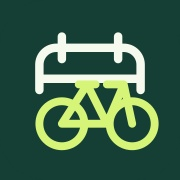
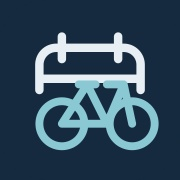
style: align public site with neutral admin design (v0.9.35)

Changed region(s): [[0.1667, 0.4167, 0.8889, 0.8611]]

diff --git a/app/components/site.module.css b/app/components/site.module.css
@@ -2,42 +2,40 @@
 .page { max-width: 1248px; margin: auto; padding: 32px 32px 80px; color: var(--foreground); }
 .heading { margin: 12px 0 32px; }
 .eyebrow { display: flex; align-items: center; gap: 9px; font-size: 11px; font-weight: 750; text-transform: uppercase; letter-spacing: .15em; color: var(--site-accent); }
-.heading h1 { margin: 14px 0 10px; font-size: clamp(30px, 3.6vw, 48px); font-weight: 750; letter-spacing: -.055em; line-height: 1.08; text-wrap: balance; }
+.heading h1 { margin: 12px 0 8px; font-size: clamp(27px, 3vw, 34px); font-weight: 650; letter-spacing: -.035em; line-height: 1.25; text-wrap: balance; }
 .heading p { color: var(--site-muted); font-size: 15px; line-height: 1.7; max-width: 680px; }
-.hero { position: relative; isolation: isolate; overflow: hidden; margin: 0 0 28px; padding: 36px 40px; border-radius: 24px; background: var(--site-hero); color: #f6f9ed; }
-.hero .eyebrow { color: var(--site-lime); }
-.hero h1 { max-width: 650px; font-size: clamp(34px, 4vw, 54px); margin: 19px 0 16px; letter-spacing: -.06em; line-height: 1.04; font-weight: 750; }
-.hero p { max-width: 490px; color: var(--site-hero-muted); font-size: 14px; line-height: 1.7; }
-.heroArt { position: absolute; width: 370px; height: 330px; right: -12px; top: -30px; z-index: -1; opacity: .65; transform: rotate(-12deg); }
-.heroArt path { fill: none; stroke: var(--site-hero-muted); stroke-width: 1; opacity: .25; }
-.heroArt .route { stroke: var(--site-lime); stroke-width: 3; opacity: 1; stroke-linecap: round; }
-.heroMeta { margin-top: 26px; display: flex; gap: 20px; flex-wrap: wrap; font-size: 10px; font-weight: 650; letter-spacing: .08em; text-transform: uppercase; color: var(--site-hero-muted); }
+.hero { display: flex; align-items: flex-end; justify-content: space-between; gap: 24px; margin: 0 0 26px; padding: 12px 0 0; color: var(--foreground); }
+.hero h1 { font-size: clamp(27px, 3vw, 34px); margin: 12px 0 8px; letter-spacing: -.035em; line-height: 1.25; font-weight: 650; }
+.hero p { max-width: 58ch; color: var(--site-muted); font-size: 14px; line-height: 1.7; }
+.heroMeta { display: flex; flex-direction: column; gap: 8px; padding-bottom: 3px; font-size: 11px; font-weight: 500; color: var(--site-muted); }
 .heroMeta span { display: inline-flex; gap: 7px; align-items: center; }
-.heroMeta svg { color: var(--site-lime); }
+.heroMeta svg { color: var(--site-muted); }
 
-.nav { position: sticky; top: 0; z-index: 50; background: var(--site-surface); border-bottom: 1px solid var(--site-line); color: var(--foreground); }
+.nav { position: sticky; top: 0; z-index: 50; background: var(--site-nav); border-bottom: 1px solid var(--site-line); color: var(--foreground); }
 .navInner { max-width: 1248px; margin: auto; padding: 0 32px; display: grid; grid-template-columns: auto 1fr; align-items: center; }
-.brand { display: inline-flex; align-items: center; gap: 11px; color: var(--foreground); text-decoration: none; padding: 19px 0; }
-.brand strong { font-size: 16px; letter-spacing: -.045em; font-weight: 800; line-height: 1.1; }
+.brand { display: inline-flex; align-items: center; gap: 11px; color: var(--foreground); text-decoration: none; padding: 16px 0; }
+.brand strong { font-size: 16px; letter-spacing: -.045em; font-weight: 700; line-height: 1.1; }
 .brand small { display: block; margin-top: 5px; font-size: 9px; letter-spacing: .19em; text-transform: uppercase; color: var(--site-muted); }
 .desktopNav { display: contents; }
-.navLinks { grid-column: 1 / -1; grid-row: 2; display: flex; gap: 5px; padding: 0 0 11px; }
+.navLinks { grid-column: 1 / -1; grid-row: 2; display: flex; gap: 4px; padding: 0; }
+.navLinks .navLink { border-radius: 0; border-bottom: 2px solid transparent; padding: 13px 12px; }
+.navLinks .activeLink { background: transparent; border-bottom-color: var(--site-accent); }
 .navLink { display: inline-flex; align-items: center; gap: 7px; padding: 10px 13px; border-radius: 9px; color: var(--site-muted); font-size: 12px; font-weight: 650; text-decoration: none; white-space: nowrap; transition: background .18s, color .18s; }
 .navLink svg { width: 15px; height: 15px; }
 .navLink:hover { background: var(--site-soft); color: var(--foreground); }
 .activeLink { background: var(--site-accent-soft); color: var(--site-accent); }
 .navActions { grid-column: 2; grid-row: 1; display: flex; align-items: center; justify-content: flex-end; gap: 10px; }
 .navActions > .navLink { padding: 8px; }
-.iconButton { display: inline-flex; align-items: center; justify-content: center; width: 38px; height: 38px; border: 1px solid var(--site-line); border-radius: 50%; color: var(--foreground); background: var(--site-surface); cursor: pointer; transition: background .2s; }
+.iconButton { display: inline-flex; align-items: center; justify-content: center; width: 38px; height: 38px; border: 1px solid var(--site-line); border-radius: 8px; color: var(--foreground); background: var(--site-surface); cursor: pointer; transition: background .2s; }
 .iconButton:hover { background: var(--site-soft); }
-.primaryButton { display: inline-flex; justify-content: center; align-items: center; gap: 9px; padding: 12px 20px; border: 1px solid transparent; border-radius: 11px; background: var(--site-accent); color: var(--site-surface); font-size: 13px; font-weight: 700; cursor: pointer; text-decoration: none; transition: filter .2s, transform .2s; }
-.primaryButton:hover { filter: brightness(1.1); transform: translateY(-1px); }
+.primaryButton { display: inline-flex; justify-content: center; align-items: center; gap: 9px; padding: 12px 20px; border: 1px solid transparent; border-radius: 11px; background: var(--site-accent); color: var(--site-surface); font-size: 13px; font-weight: 700; cursor: pointer; text-decoration: none; transition: filter .2s; }
+.primaryButton:hover { filter: brightness(1.08); }
 .primaryButton:disabled { opacity: .6; cursor: wait; transform: none; }
 .mobileNav, .mobileActions { display: none; }
 .drawerBackdrop { display: none; }
 .drawer { display: none; }
 
-.toolbar { display: flex; align-items: center; justify-content: space-between; gap: 14px; padding: 16px; border: 1px solid var(--site-line); border-radius: 16px; background: var(--site-surface); }
+.toolbar { display: flex; align-items: center; justify-content: space-between; gap: 14px; padding: 16px; border: 1px solid var(--site-line); border-radius: 10px; background: var(--site-surface); }
 .toolbarActions { display: flex; gap: 8px; flex-wrap: wrap; align-items: center; }
 .filterButton, .toolbar select { display: inline-flex; align-items: center; justify-content: center; gap: 8px; min-height: 42px; padding: 0 14px; border: 1px solid var(--site-line); border-radius: 10px; background: var(--site-surface); color: var(--foreground); font-size: 12px; font-weight: 650; cursor: pointer; }
 .filterButton[aria-expanded="true"] { background: var(--site-accent-soft); color: var(--site-accent); border-color: var(--site-accent); }
@@ -47,49 +45,49 @@
 .search input::placeholder { color: var(--site-muted); }
 .search button { flex-shrink: 0; width: 28px; height: 28px; display: grid; place-items: center; border-radius: 6px; }
 .results { display: flex; flex-wrap: wrap; align-items: center; justify-content: space-between; gap: 12px; padding: 19px 2px 0; }
-.filters { margin-top: 14px; padding: 24px; border: 1px solid var(--site-line); border-radius: 16px; background: var(--site-surface); }
+.filters { margin-top: 14px; padding: 24px; border: 1px solid var(--site-line); border-radius: 10px; background: var(--site-surface); }
 .filters select { min-height: 42px; }
 .filters label { color: var(--site-muted); letter-spacing: .08em; font-size: 10px; }
 .monthHeading { display: flex; gap: 14px; align-items: center; margin: 24px 0 8px; }
 .monthHeading h2 { font-size: 20px; font-weight: 750; letter-spacing: -.035em; }
 .monthHeading h2 span { color: var(--site-muted); font-weight: 400; margin-left: 8px; }
 .monthHeading::after { content: ''; height: 1px; flex: 1; background: var(--site-line); }
-.eventCard { position: relative; display: flex; align-items: center; gap: 16px; padding: 18px; background: var(--site-surface); border: 1px solid var(--site-line); border-radius: 14px; transition: border-color .2s, box-shadow .2s; cursor: pointer; }
-.eventCard:hover { border-color: var(--site-accent); box-shadow: 0 4px 18px #153e350a; }
-.eventCard:has(.eventTitle:focus-visible) { outline: 3px solid var(--site-accent); outline-offset: 3px; }
+.eventCard { position: relative; display: flex; align-items: center; gap: 16px; padding: 18px; background: var(--site-surface); border: 1px solid var(--site-line); border-radius: 10px; transition: border-color .2s, box-shadow .2s; cursor: pointer; }
+.eventCard:hover { border-color: var(--site-accent); background: var(--site-soft); }
+.eventCard:has(.eventTitle:focus-visible) { outline: 2px solid var(--site-accent); outline-offset: 3px; }
 .eventTitle:focus-visible { outline: none; }
 .eventCard[data-state="marked"] { border-left: 4px solid #10b981; }
 .eventCard[data-state="conflict"] { border-left: 4px solid #f97316; }
 .eventCard[data-state="favorite"] { border-left: 4px solid #eab308; }
 .eventMain { display: flex; gap: 18px; flex: 1; min-width: 0; align-items: center; }
 .date { display: flex; flex-direction: column; justify-content: center; align-items: center; width: 66px; min-height: 66px; flex-shrink: 0; border-radius: 11px; background: var(--site-soft); color: var(--foreground); }
-.dateMonth { color: var(--site-accent); font-size: 10px; font-weight: 800; letter-spacing: .1em; }
+.dateMonth { color: var(--site-muted); font-size: 10px; font-weight: 650; letter-spacing: .06em; }
 .dateDay { font-size: 27px; letter-spacing: -.06em; font-weight: 750; line-height: 1.15; }
 .dateRange { font-size: 18px; line-height: 1.5; }
 .eventTitle { color: var(--foreground); font-size: 15px; font-weight: 700; letter-spacing: -.02em; line-height: 1.5; text-align: left; }
-.eventTitle::after { content: ''; position: absolute; inset: 0; border-radius: 14px; }
+.eventTitle::after { content: ''; position: absolute; inset: 0; border-radius: 10px; }
 .eventFavorite { position: relative; z-index: 1; min-width: 36px; min-height: 36px; }
 .eventMeta { display: flex; gap: 12px; flex-wrap: wrap; color: var(--site-muted); font-size: 11px; line-height: 1.6; margin-top: 3px; }
 .eventMeta > span { display: inline-flex; align-items: center; gap: 5px; }
 .eventBadges { max-width: 280px; display: flex; gap: 6px; flex-wrap: wrap; justify-content: flex-end; }
 .eventBadges > span { border-radius: 6px; padding: 5px 7px; font-size: 9px; }
 .eventArrow { flex-shrink: 0; color: var(--site-muted); }
-.empty { margin: 40px auto; max-width: 660px; text-align: center; padding: 50px 30px; border: 1px solid var(--site-line); background: var(--site-surface); border-radius: 24px; }
-.emptyIcon { display: grid; place-items: center; width: 72px; height: 72px; margin: 0 auto 24px; background: var(--site-accent-soft); color: var(--site-accent); border-radius: 22px; transform: rotate(-5deg); }
+.empty { margin: 40px auto; max-width: 660px; text-align: center; padding: 50px 30px; border: 1px solid var(--site-line); background: var(--site-surface); border-radius: 12px; }
+.emptyIcon { display: grid; place-items: center; width: 72px; height: 72px; margin: 0 auto 24px; background: var(--site-accent-soft); color: var(--site-accent); border-radius: 12px; }
 .empty .heading { margin-bottom: 24px; }
 .empty .heading h1 { font-size: clamp(28px, 4vw, 40px); }
 .empty .heading p { margin: auto; }
 .empty .eyebrow { justify-content: center; }
 .secondary { max-width: 960px; }
 .secondaryWide { max-width: 1152px; }
-.panel { padding: 28px; border-radius: 18px; background: var(--site-surface); border: 1px solid var(--site-line); box-shadow: 0 5px 24px #153e3504; }
-.secondary :where(main > section, .legalSection) { background: var(--site-surface); border-color: var(--site-line); box-shadow: none; border-radius: 18px; }
+.panel { padding: 28px; border-radius: 12px; background: var(--site-surface); border: 1px solid var(--site-line); box-shadow: none; }
+.secondary :where(main > section, .legalSection) { background: var(--site-surface); border-color: var(--site-line); box-shadow: none; border-radius: 12px; }
 .secondary :where(h2, h3) { letter-spacing: -.025em; }
 .contactGrid { display: grid; grid-template-columns: 1fr 1.5fr; gap: 48px; align-items: start; }
 .contactGrid .heading { position: sticky; top: 170px; }
 .contactGrid form input, .contactGrid form textarea { background: var(--site-soft); border-color: var(--site-line); color: var(--foreground); }
 .supportGrid { display: grid; grid-template-columns: repeat(2, minmax(0,1fr)); gap: 24px; }
-.supportGrid > div { min-width: 0; max-width: none; max-height: none; overflow: visible; background: var(--site-surface); border-color: var(--site-line); border-radius: 18px; box-shadow: none; }
+.supportGrid > div { min-width: 0; max-width: none; max-height: none; overflow: visible; background: var(--site-surface); border-color: var(--site-line); border-radius: 12px; box-shadow: none; }
 .legalIntro { font-size: 16px; line-height: 1.9; border-left: 3px solid var(--site-accent); padding: 10px 0 10px 24px; margin: 0 0 32px; }
 .legalSection { margin-top: 14px; }
 
@@ -97,14 +95,14 @@
 .eventDialog:focus, .welcome:focus, .drawer:focus { outline: none; }
 .eventTabs { display: flex; gap: 5px; overflow-x: auto; padding: 5px; background: var(--site-soft); border: 1px solid var(--site-line); border-radius: 12px; }
 .eventTab { display: flex; flex: 1; justify-content: center; align-items: center; gap: 7px; padding: 11px 12px; border-radius: 8px; white-space: nowrap; color: var(--site-muted); font-size: 12px; font-weight: 600; }
-.eventTab[aria-pressed="true"] { background: var(--site-surface); color: var(--site-accent); box-shadow: 0 1px 4px #153e3510; }
-.eventSummary { padding: 20px; margin-bottom: 16px; background: var(--site-soft); border: 1px solid var(--site-line); border-radius: 16px; }
+.eventTab[aria-pressed="true"] { background: var(--site-surface); color: var(--site-accent); box-shadow: 0 1px 4px #02061710; }
+.eventSummary { padding: 20px; margin-bottom: 16px; background: var(--site-soft); border: 1px solid var(--site-line); border-radius: 10px; }
 .eventDialog h2 { letter-spacing: -.035em; }
 .eventDialog > :last-child { background: var(--site-soft); border-color: var(--site-line); }
-.overlay { background: #081f19b3; backdrop-filter: blur(7px); }
-.welcome { background: var(--site-surface); border-color: var(--site-line); border-radius: 24px; }
+.overlay { background: #020617b3; backdrop-filter: blur(7px); }
+.welcome { background: var(--site-surface); border-color: var(--site-line); border-radius: 12px; }
 .welcome > :first-child { background: var(--site-accent-soft); }
-.cookie { position: fixed; bottom: 20px; left: 24px; z-index: 40; max-width: 470px; padding: 24px; background: var(--site-surface); border: 1px solid var(--site-line); border-radius: 18px; box-shadow: 0 12px 60px #081f1926; }
+.cookie { position: fixed; bottom: 20px; left: 24px; z-index: 40; max-width: 470px; padding: 24px; background: var(--site-surface); border: 1px solid var(--site-line); border-radius: 12px; box-shadow: 0 12px 60px #02061726; }
 .cookie p { color: var(--site-muted); font-size: 12px; line-height: 1.7; }
 .cookie h3 { color: var(--foreground); font-weight: 700; font-size: 15px; margin-bottom: 8px; }
 .cookieActions { display: flex; gap: 12px; margin-top: 16px; }
@@ -122,21 +120,19 @@
   .nav > .navInner > .brand, .desktopNav { display: none; }
   .mobileNav, .mobileActions { display: flex; align-items: center; gap: 12px; }
   .mobileNav .brand { padding: 0; }
-  .drawerBackdrop { display: block; position: fixed; inset: 0; background: #081f1970; backdrop-filter: blur(5px); z-index: 55; }
+  .drawerBackdrop { display: block; position: fixed; inset: 0; background: #02061770; backdrop-filter: blur(5px); z-index: 55; }
   .drawer { display: flex; position: fixed; top: 0; left: 0; bottom: 0; width: 310px; max-width: 90vw; flex-direction: column; background: var(--site-surface); border-right: 1px solid var(--site-line); z-index: 60; color: var(--foreground); transition: transform .25s; }
   .drawer .navLink { padding: 12px; font-size: 14px; }
-  .heroArt { opacity: .35; right: -90px; }
   .eventBadges { max-width: 200px; }
 }
 @media (max-width: 700px) {
   .page { padding: 22px 16px 48px; }
   .heading { margin: 6px 0 24px; }
   .heading p { font-size: 14px; }
-  .hero { padding: 26px; border-radius: 18px; margin-bottom: 22px; }
-  .hero h1 { font-size: 37px; max-width: 310px; }
-  .hero p { max-width: 310px; font-size: 13px; }
-  .heroArt { right: -190px; top: 0; opacity: .22; }
-  .heroMeta { gap: 10px 18px; margin-top: 22px; font-size: 9px; }
+  .hero { flex-direction: column; align-items: flex-start; gap: 16px; padding: 4px 0 0; margin-bottom: 24px; }
+  .hero h1 { font-size: 28px; }
+  .hero p { max-width: 40ch; font-size: 13px; }
+  .heroMeta { flex-direction: row; flex-wrap: wrap; gap: 8px 16px; font-size: 10px; }
   .navInner { padding: 12px 16px; }
   .brand strong { font-size: 14px; }
   .brand small { font-size: 8px; }
@@ -178,13 +174,13 @@
 .paletteGrid { display: grid; grid-template-columns: repeat(4, minmax(0, 1fr)); gap: 12px; margin-top: 20px; }
 .paletteOption { position: relative; min-width: 0; cursor: pointer; }
 .paletteOption input { position: absolute; width: 1px; height: 1px; opacity: 0; }
-.paletteCard { display: block; border: 1px solid var(--site-line); border-radius: 14px; padding: 8px; background: var(--site-surface); transition: border-color .2s; }
-.paletteSwatch { display: flex; align-items: flex-end; gap: 5px; height: 64px; border-radius: 8px; padding: 10px; }
+.paletteCard { display: block; border: 1px solid var(--site-line); border-radius: 10px; padding: 8px; background: var(--site-surface); transition: border-color .2s; }
+.paletteSwatch { display: flex; align-items: flex-end; gap: 5px; height: 44px; border-radius: 6px; padding: 10px; background: var(--site-soft); }
 .paletteSwatch > span { width: 22px; height: 22px; border-radius: 50%; border: 1px solid #ffffff40; }
 .paletteName { display: flex; align-items: center; justify-content: space-between; gap: 4px; padding: 10px 3px 3px; font-size: 12px; font-weight: 650; }
 .paletteName svg { visibility: hidden; flex-shrink: 0; }
 .paletteOption input:checked + .paletteCard { border-color: var(--site-accent); box-shadow: 0 0 0 1px var(--site-accent); background: var(--site-accent-soft); color: var(--site-accent); }
 .paletteOption input:checked + .paletteCard svg { visibility: visible; }
-.paletteOption input:focus-visible + .paletteCard { outline: 3px solid var(--site-accent); outline-offset: 4px; }
+.paletteOption input:focus-visible + .paletteCard { outline: 2px solid var(--site-accent); outline-offset: 4px; }
 .paletteOption:hover .paletteCard { border-color: var(--site-accent); }
 @media (max-width: 540px) { .paletteGrid { grid-template-columns: repeat(2, minmax(0, 1fr)); } }

diff --git a/app/components/PageHeading.js b/app/components/PageHeading.js
@@ -5,10 +5,10 @@ import { useTranslation } from '../i18n/useTranslation';
 import styles from './site.module.css';
 
 const copy = {
-    pt: { eyebrow: 'O ciclismo acontece aqui', title: 'A tua próxima partida está aqui.', description: 'Da estrada aos trilhos. Descobre provas, guarda as favoritas e prepara a tua época de ciclismo.', place: 'Portugal e além', calendar: 'O teu calendário de ciclismo' },
-    en: { eyebrow: 'Where cycling happens', title: 'Your next start line is here.', description: 'From roads to trails. Discover races, save your favourites and plan your cycling season.', place: 'Portugal and beyond', calendar: 'Your cycling calendar' },
-    es: { eyebrow: 'Aquí se vive el ciclismo', title: 'Tu próxima salida está aquí.', description: 'De la carretera a los senderos. Descubre pruebas, guarda tus favoritas y prepara tu temporada.', place: 'Portugal y más allá', calendar: 'Tu calendario de ciclismo' },
-    fr: { eyebrow: 'Le cyclisme se vit ici', title: 'Votre prochain départ est ici.', description: 'De la route aux sentiers. Découvrez les épreuves, gardez vos favorites et préparez votre saison.', place: 'Au Portugal et au-delà', calendar: 'Votre calendrier cycliste' },
+    pt: { title: 'Calendário de ciclismo', description: 'Provas, datas e informações para planear a tua época.', place: 'Portugal e internacional' },
+    en: { title: 'Cycling calendar', description: 'Races, dates and details to plan your season.', place: 'Portugal and international' },
+    es: { title: 'Calendario de ciclismo', description: 'Pruebas, fechas e información para planificar tu temporada.', place: 'Portugal e internacional' },
+    fr: { title: 'Calendrier cycliste', description: 'Épreuves, dates et informations pour préparer votre saison.', place: 'Portugal et international' },
 };
 
 export default function PageHeading({ title, subtitle, icon: Icon = Flag, hero = false }) {
@@ -23,18 +23,15 @@ export default function PageHeading({ title, subtitle, icon: Icon = Flag, hero =
     );
     return (
         <header className={styles.hero}>
-            <div className={styles.eyebrow}><Bike size={16} aria-hidden="true" />{text.eyebrow}</div>
-            <h1>{text.title}</h1>
-            <p>{text.description}</p>
+            <div>
+                <div className={styles.eyebrow}><Bike size={15} aria-hidden="true" />Cycling Calendar / Portugal</div>
+                <h1>{text.title}</h1>
+                <p>{text.description}</p>
+            </div>
             <div className={styles.heroMeta}>
                 <span><MapPin size={13} aria-hidden="true" />{text.place}</span>
                 <span><ArrowUpRight size={13} aria-hidden="true" />FPC · Cabreira · Stop & Go</span>
             </div>
-            <svg className={styles.heroArt} viewBox="0 0 370 330" aria-hidden="true">
-                {[0, 18, 36, 54, 72, 90].map(offset => <path key={offset} transform={`translate(${offset / 3} ${offset / 2})`} d="M35 -20 C240 -25 330 55 235 115 S40 170 135 210 S320 230 290 350" />)}
-                <path className={styles.route} d="M120 -20 C310 10 325 72 232 122 S78 173 164 207 S335 244 292 350" />
-                <circle cx="164" cy="207" r="8" fill="var(--site-lime)" stroke="var(--site-hero)" strokeWidth="4" />
-            </svg>
         </header>
     );
 }

diff --git a/app/globals.css b/app/globals.css
@@ -4,28 +4,29 @@
 
 @layer base {
   :root {
-    --background: #f5f6f2;
-    --foreground: #182c2a;
+    --background: #f5f7f9;
+    --foreground: #182a36;
     --site-surface: #ffffff;
-    --site-soft: #eef2ed;
-    --site-line: #dde4de;
-    --site-muted: #667873;
-    --site-accent: #176b57;
-    --site-accent-soft: #e5f1e9;
-    --site-lime: #d5f478;
-    --site-hero: #153e35;
-    --site-hero-muted: #c6d8cb;
+    --site-soft: #edf1f5;
+    --site-line: #e1e7eb;
+    --site-muted: #596b79;
+    --site-accent: #126879;
+    --site-accent-soft: #e8f2f5;
+    --site-mark: #8ac9d4;
+    --site-logo-bg: #152a3e;
+    --site-nav: #ffffff;
   }
 
   .dark {
-    --background: #101a19;
-    --foreground: #edf3ec;
-    --site-surface: #182623;
-    --site-soft: #20322d;
-    --site-line: #30443c;
-    --site-muted: #a0b5ab;
-    --site-accent: #bce881;
-    --site-accent-soft: #293d2e;
+    --background: #020617;
+    --site-nav: #0b1422;
+    --foreground: #e7eef4;
+    --site-surface: #111d2a;
+    --site-soft: #172534;
+    --site-line: #2a3a49;
+    --site-muted: #a1b1bf;
+    --site-accent: #8ac9d4;
+    --site-accent-soft: #142c37;
   }
 
   body {
@@ -34,8 +35,8 @@
     font-family: var(--font-geist-sans), system-ui, sans-serif;
   }
 
-  :focus-visible { outline: 3px solid var(--site-accent); outline-offset: 4px; }
-  ::selection { background: var(--site-lime); color: var(--site-hero); }
+  :focus-visible { outline: 2px solid var(--site-accent); outline-offset: 4px; }
+  ::selection { background: var(--site-mark); color: var(--site-logo-bg); }
   html { scroll-padding-top: 140px; }
   button, input, select, textarea { font: inherit; }
 }
@@ -55,7 +56,7 @@
   animation: slide-up 0.4s ease-out;
 }
 
-.skip-link { position: fixed; top: 12px; left: 12px; transform: translateY(-160%); z-index: 10001; padding: 12px 20px; background: var(--site-lime); color: var(--site-hero); border-radius: 12px; font-weight: 700; }
+.skip-link { position: fixed; top: 12px; left: 12px; transform: translateY(-160%); z-index: 10001; padding: 12px 20px; background: var(--site-mark); color: var(--site-logo-bg); border-radius: 12px; font-weight: 700; }
 .skip-link:focus { transform: translateY(0); }
 
 @media (prefers-reduced-motion: reduce) {

diff --git a/app/lib/colorPalettes.js b/app/lib/colorPalettes.js
@@ -1,11 +1,11 @@
 // Brand colors only: semantic success, warning and error colors stay independent.
-export const DEFAULT_PALETTE = 'forest';
+export const DEFAULT_PALETTE = 'atlantic';
 export const SETTINGS_STORAGE_KEY = 'cycling-calendar-settings';
 export const COLOR_PALETTES = [
-    { id: 'forest', accent: '#176b57', soft: '#e5f1e9', nightAccent: '#bce881', nightSoft: '#293d2e', hero: '#153e35', highlight: '#d5f478', heroMuted: '#c6d8cb' },
-    { id: 'atlantic', accent: '#245eb2', soft: '#e8effc', nightAccent: '#9fc5ff', nightSoft: '#203650', hero: '#183452', highlight: '#b2e4ff', heroMuted: '#c8d9ec' },
-    { id: 'violet', accent: '#7144a5', soft: '#f0eafa', nightAccent: '#d2b4fa', nightSoft: '#382a49', hero: '#372448', highlight: '#e1c6ff', heroMuted: '#dfd1e9' },
-    { id: 'terracotta', accent: '#a3472d', soft: '#faece5', nightAccent: '#ffbd9d', nightSoft: '#432e27', hero: '#492c24', highlight: '#ffd19f', heroMuted: '#ead3c7' },
+    { id: 'forest', accent: '#26705d', soft: '#edf5f1', nightAccent: '#81baa5', nightSoft: '#192e2b' },
+    { id: 'atlantic', accent: '#126879', soft: '#e8f2f5', nightAccent: '#8ac9d4', nightSoft: '#142c37' },
+    { id: 'violet', accent: '#7144a5', soft: '#f2eef7', nightAccent: '#bfacd8', nightSoft: '#28253a' },
+    { id: 'terracotta', accent: '#a3472d', soft: '#f7eeea', nightAccent: '#d7ac94', nightSoft: '#302724' },
 ];
 export function normalizePalette(value) {
     return COLOR_PALETTES.some(p => p.id === value) ? value : DEFAULT_PALETTE;
@@ -17,7 +17,7 @@ export function paletteCSS() {
     return COLOR_PALETTES.map(p => `
         :root[data-palette="${p.id}"] {
             --site-accent: ${p.accent}; --site-accent-soft: ${p.soft};
-            --site-hero: ${p.hero}; --site-lime: ${p.highlight}; --site-hero-muted: ${p.heroMuted};
+            --site-mark: ${p.nightAccent};
         }
         :root.dark[data-palette="${p.id}"] {
             --site-accent: ${p.nightAccent}; --site-accent-soft: ${p.nightSoft};

diff --git a/app/lib/brand.js b/app/lib/brand.js
@@ -2,5 +2,5 @@
 export const CALENDAR_PATH = 'M14 32V23a6 6 0 0 1 6-6h24a6 6 0 0 1 6 6v9M22 13v8m20-8v8M14 28h36';
 export const BICYCLE_PATH = 'm22 44 9-14 7 14H22m16 0 6-14h-6m6 0 3 14M28 30h6';
 export function brandSVG() {
-    return `<svg xmlns="http://www.w3.org/2000/svg" viewBox="0 0 64 64" width="64" height="64"><rect width="64" height="64" rx="16" fill="#153e35"/><g fill="none" stroke-linecap="round" stroke-linejoin="round"><path d="${CALENDAR_PATH}" stroke="#f6f9ed" stroke-width="3"/><g stroke="#d5f478" stroke-width="2.8"><circle cx="22" cy="44" r="8"/><circle cx="47" cy="44" r="8"/><path d="${BICYCLE_PATH}"/></g></g></svg>`;
+    return `<svg xmlns="http://www.w3.org/2000/svg" viewBox="0 0 64 64" width="64" height="64"><rect width="64" height="64" rx="16" fill="#152a3e"/><g fill="none" stroke-linecap="round" stroke-linejoin="round"><path d="${CALENDAR_PATH}" stroke="#e7eef4" stroke-width="3"/><g stroke="#8ac9d4" stroke-width="2.8"><circle cx="22" cy="44" r="8"/><circle cx="47" cy="44" r="8"/><path d="${BICYCLE_PATH}"/></g></g></svg>`;
 }

diff --git a/app/components/ColorPalettePicker.js b/app/components/ColorPalettePicker.js
@@ -22,8 +22,8 @@ export default function ColorPalettePicker() {
                             checked={normalizePalette(colorPalette) === p.id}
                             onChange={() => setColorPalette(p.id)} />
                         <span className={styles.paletteCard}>
-                            <span className={styles.paletteSwatch} aria-hidden="true" style={{ background: p.hero }}>
-                                <span style={{ background: p.accent }} /><span style={{ background: p.highlight }} />
+                            <span className={styles.paletteSwatch} aria-hidden="true">
+                                <span style={{ background: p.accent }} /><span style={{ background: p.nightAccent }} />
                             </span>
                             <span className={styles.paletteName}>{t(`settings_palette_${p.id}`)}<Check size={15} aria-hidden="true" /></span>
                         </span>

diff --git a/app/components/DynamicLogo.js b/app/components/DynamicLogo.js
@@ -3,10 +3,10 @@ import { CALENDAR_PATH, BICYCLE_PATH } from '../lib/brand';
 export default function DynamicLogo({ className = 'w-8 h-8' }) {
     return (
         <svg viewBox="0 0 64 64" className={`shrink-0 ${className}`} aria-hidden="true" focusable="false">
-            <rect width="64" height="64" rx="16" fill="var(--site-hero)" />
+            <rect width="64" height="64" rx="16" fill="var(--site-logo-bg)" />
             <g fill="none" strokeLinecap="round" strokeLinejoin="round">
-                <path d={CALENDAR_PATH} stroke="#f6f9ed" strokeWidth="3" />
-                <g stroke="var(--site-lime)" strokeWidth="2.8">
+                <path d={CALENDAR_PATH} stroke="#e7eef4" strokeWidth="3" />
+                <g stroke="var(--site-mark)" strokeWidth="2.8">
                     <circle cx="22" cy="44" r="8" /><circle cx="47" cy="44" r="8" />
                     <path d={BICYCLE_PATH} />
                 </g>

diff --git a/app/components/ThemeClerkProvider.js b/app/components/ThemeClerkProvider.js
@@ -29,9 +29,9 @@ export default function ThemeClerkProvider({ children }) {
         baseTheme: resolvedTheme === 'dark' ? dark : undefined,
         variables: {
           colorPrimary: resolvedTheme === 'dark' ? palette.nightAccent : palette.accent,
-          colorBackground: resolvedTheme === 'dark' ? '#182623' : '#ffffff',
-          colorText: resolvedTheme === 'dark' ? '#edf3ec' : '#182c2a',
-          borderRadius: '0.85rem',
+          colorBackground: resolvedTheme === 'dark' ? '#111d2a' : '#ffffff',
+          colorText: resolvedTheme === 'dark' ? '#e7eef4' : '#182a36',
+          borderRadius: '0.65rem',
           fontFamily: 'var(--font-geist-sans), system-ui, sans-serif',
         },
         elements: {

diff --git a/app/i18n/locales/fr.js b/app/i18n/locales/fr.js
@@ -1,6 +1,6 @@
 export default {
     settings_palette_title: "Couleur de l’application",
-    settings_palette_desc: "Choisissez votre palette. Elle fonctionne en mode clair et sombre et reste enregistrée sur cet appareil. Les couleurs des alertes et des statuts ne changent pas.",
+    settings_palette_desc: "La couleur s’applique uniquement aux accents. Les fonds restent neutres en mode clair et sombre. Votre choix est enregistré sur cet appareil.",
     settings_palette_forest: "Forêt",
     settings_palette_atlantic: "Atlantique",
     settings_palette_violet: "Violet",

diff --git a/app/i18n/locales/es.js b/app/i18n/locales/es.js
@@ -1,6 +1,6 @@
 export default {
     settings_palette_title: "Color de la aplicación",
-    settings_palette_desc: "Elige tu paleta. Funciona en modo claro y oscuro y se guarda en este dispositivo. Los colores de avisos y estados no cambian.",
+    settings_palette_desc: "El color se aplica solo a los detalles destacados. Los fondos permanecen neutros en modo claro y oscuro. Tu elección se guarda en este dispositivo.",
     settings_palette_forest: "Bosque",
     settings_palette_atlantic: "Atlántico",
     settings_palette_violet: "Violeta",

diff --git a/app/i18n/locales/pt.js b/app/i18n/locales/pt.js
@@ -1,6 +1,6 @@
 export default {
     settings_palette_title: "Cor da aplicação",
-    settings_palette_desc: "Escolhe a tua paleta. Funciona nos modos claro e escuro e fica guardada neste dispositivo. As cores dos avisos e estados não mudam.",
+    settings_palette_desc: "A cor aplica-se apenas aos destaques. Os fundos mantêm-se neutros, em modo claro e escuro. A escolha fica guardada neste dispositivo.",
     settings_palette_forest: "Floresta",
     settings_palette_atlantic: "Atlântico",
     settings_palette_violet: "Violeta",

diff --git a/app/i18n/locales/en.js b/app/i18n/locales/en.js
@@ -1,6 +1,6 @@
 export default {
     settings_palette_title: "App color",
-    settings_palette_desc: "Choose your palette. It works in light and dark modes and is saved on this device. Warning and status colors stay the same.",
+    settings_palette_desc: "Color applies only to accents. Backgrounds stay neutral in light and dark modes. Your choice is saved on this device.",
     settings_palette_forest: "Forest",
     settings_palette_atlantic: "Atlantic",
     settings_palette_violet: "Violet",
